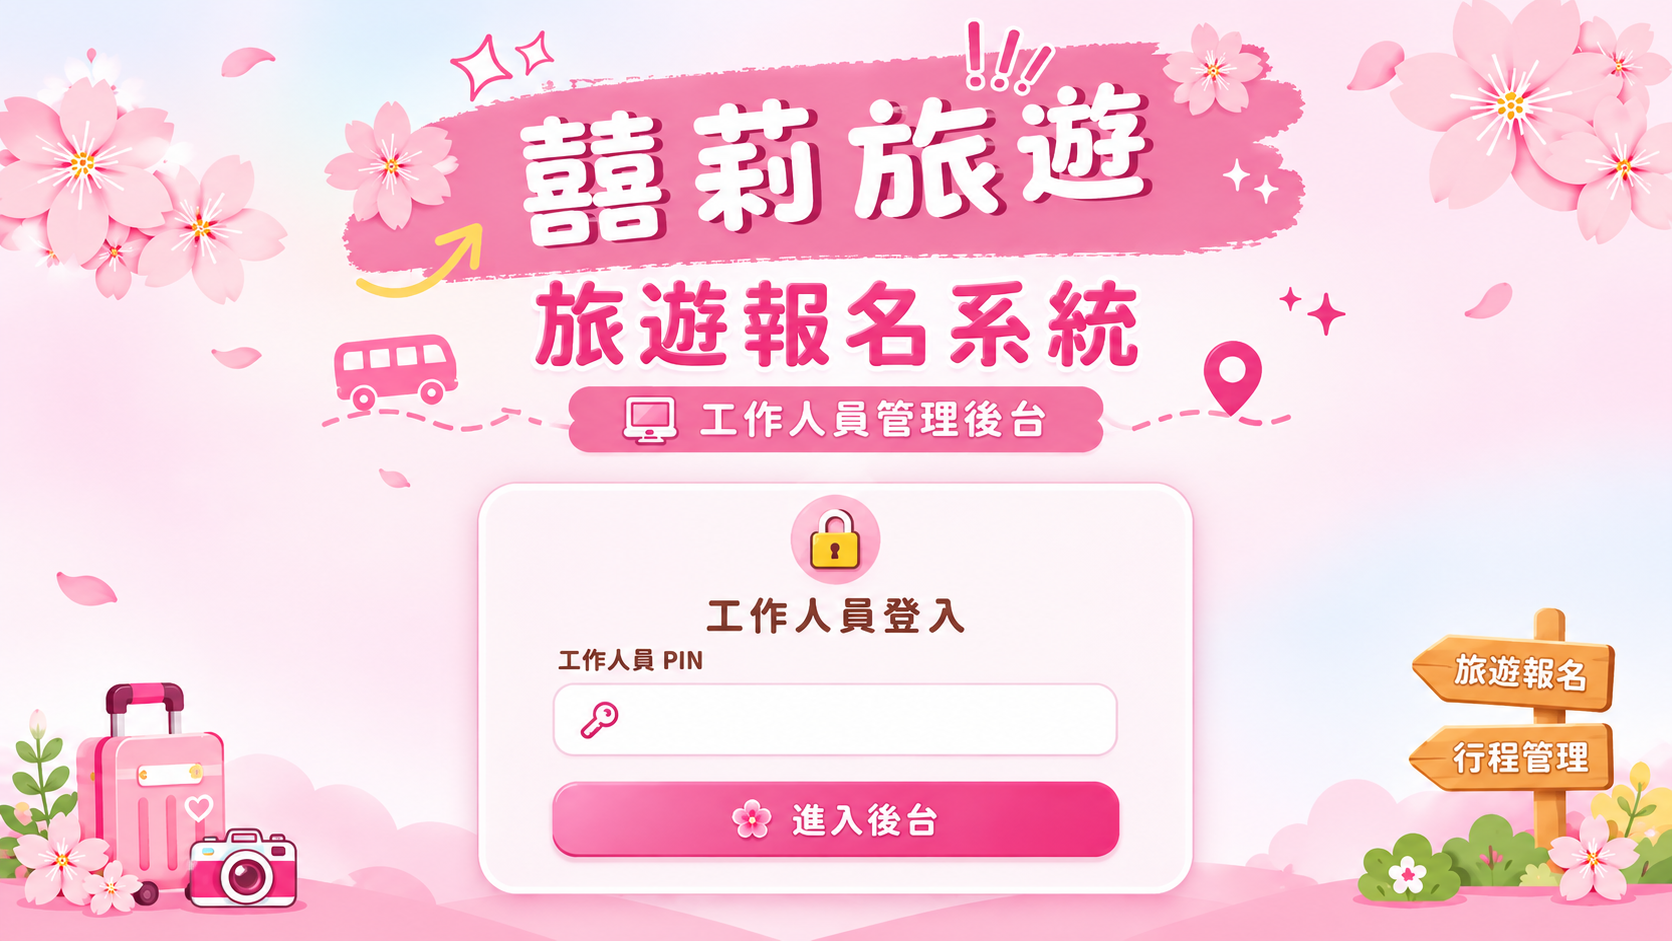
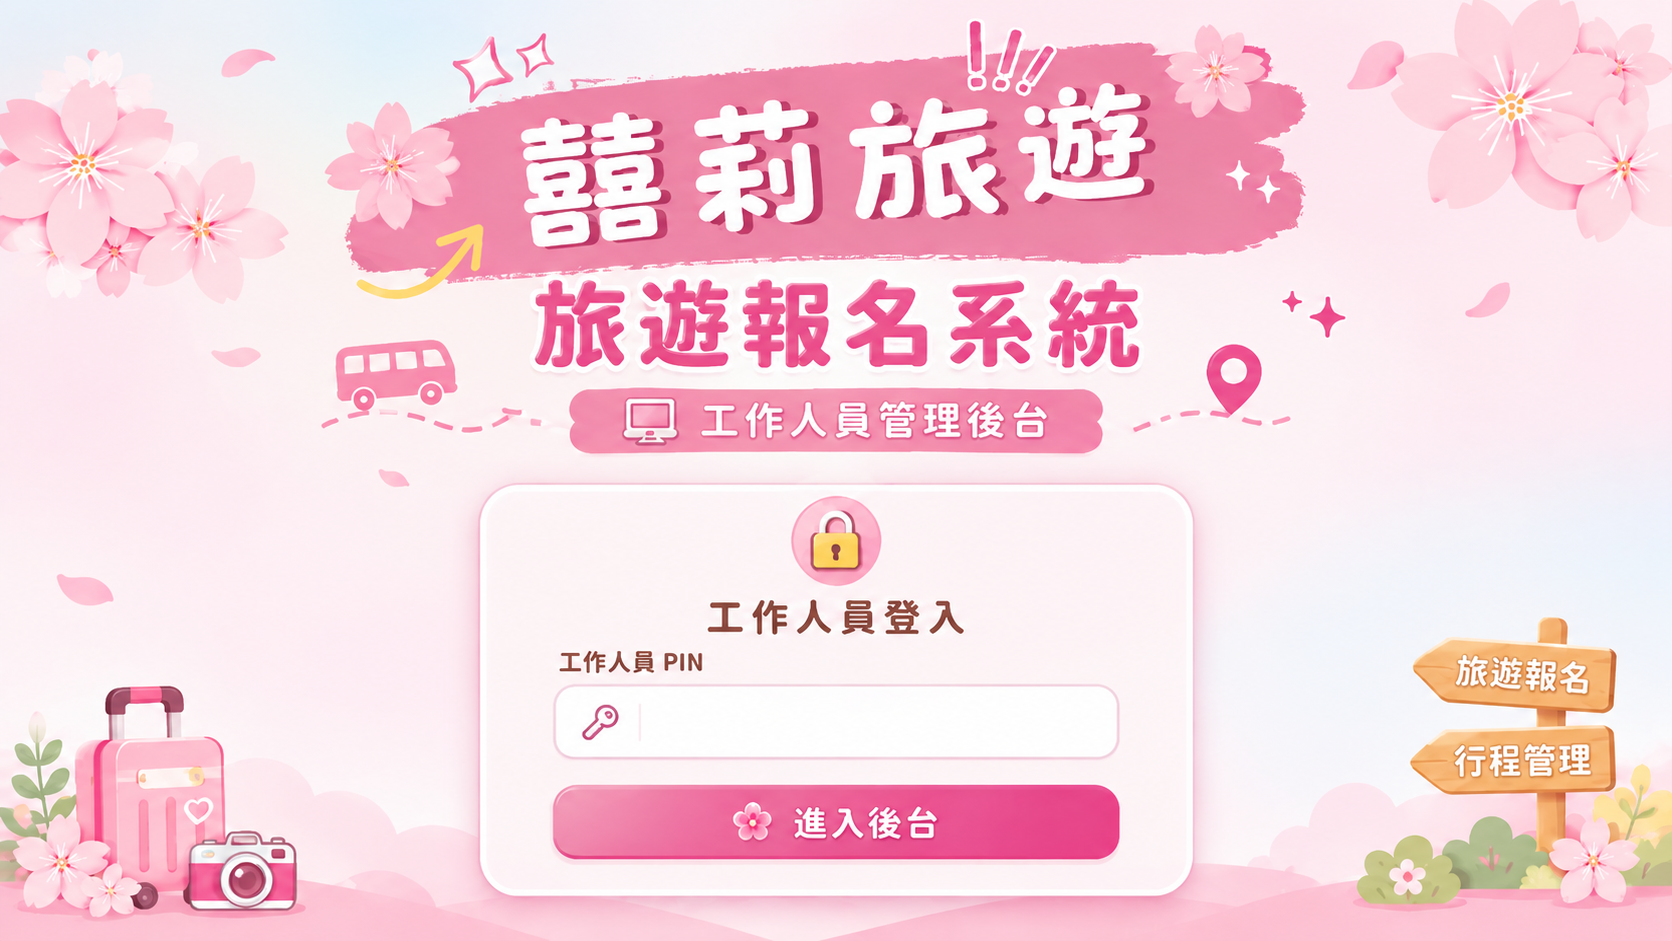
Add files via upload

diff --git a/admin.css b/admin.css
@@ -3951,7 +3951,7 @@ body.admin-body {
 .dashboard-stats .stat-icon img { width:100% !important; height:100% !important; object-fit:contain !important; display:block !important; }
 .registration-overview-card .panel-accent {
   right:0 !important; bottom:-13px !important; width:74% !important; height:54px !important;
-  background-image:url("registration-floral-divider.png?v=20261126-v26-clean-assets") !important;
+  background-image:url("none?v=20261126-v26-clean-assets") !important;
   background-repeat:no-repeat !important; background-position:right center !important; background-size:100% 100% !important;
   opacity:1 !important;
 }
@@ -3998,7 +3998,7 @@ body.admin-body {
   bottom: -13px !important;
   width: 74% !important;
   height: 54px !important;
-  background-image: url("registration-floral-divider.png?v=20261126-v27-divider") !important;
+  background-image: url("none?v=20261126-v27-divider") !important;
   background-repeat: no-repeat !important;
   background-position: right center !important;
   background-size: 100% 100% !important;
@@ -4024,7 +4024,7 @@ body.admin-body {
   bottom: -8px !important;
   width: 62% !important;
   height: 38px !important;
-  background-image: url("registration-accent-subtle.svg?v=20261126-v29") !important;
+  background-image: url("none?v=20261126-v29") !important;
   background-repeat: no-repeat !important;
   background-position: right center !important;
   background-size: contain !important;
@@ -4148,7 +4148,7 @@ body.admin-body {
   bottom: auto !important;
   width: 47% !important;
   height: 58px !important;
-  background-image: url("registration-accent-visible.svg?v=20261126-v31") !important;
+  background-image: url("none?v=20261126-v31") !important;
   background-repeat: no-repeat !important;
   background-position: right center !important;
   background-size: contain !important;
@@ -4456,7 +4456,7 @@ body.admin-body .admin-table {
   bottom:auto !important;
   width:138px !important;
   height:78px !important;
-  background-image:url("registration-status-blossoms.png?v=20261126-v34") !important;
+  background-image:url("none?v=20261126-v34") !important;
   background-repeat:no-repeat !important;
   background-position:center center !important;
   background-size:contain !important;
@@ -4744,7 +4744,7 @@ body.admin-body .admin-table {
   right:4px !important;
   width:180px !important;
   height:66px !important;
-  background-image:url("registration-golden-wheat-accent.png?v=20261126-v35") !important;
+  background-image:url("none?v=20261126-v35") !important;
   background-repeat:no-repeat !important;
   background-position:right center !important;
   background-size:contain !important;

diff --git a/admin.js b/admin.js
@@ -1363,7 +1363,7 @@ function initializeAdminLock() {
   loginOverlay.id = "adminLoginOverlay";
   loginOverlay.innerHTML = `
     <div class="login-stage">
-      <img class="login-artwork" src="login-cover.png?v=20261126-v27-new-cover" alt="囍莉旅遊旅遊報名系統工作人員登入" draggable="false">
+      <img class="login-artwork" src="login-cover.png?v=20261126-user-login-cover-final" alt="囍莉旅遊旅遊報名系統工作人員登入" draggable="false">
       <form id="adminLoginForm" class="login-hotspots" aria-label="工作人員登入">
         <input id="adminLoginPassword" type="password" autocomplete="current-password"
           placeholder="輸入工作人員 PIN" aria-label="工作人員 PIN" required>
